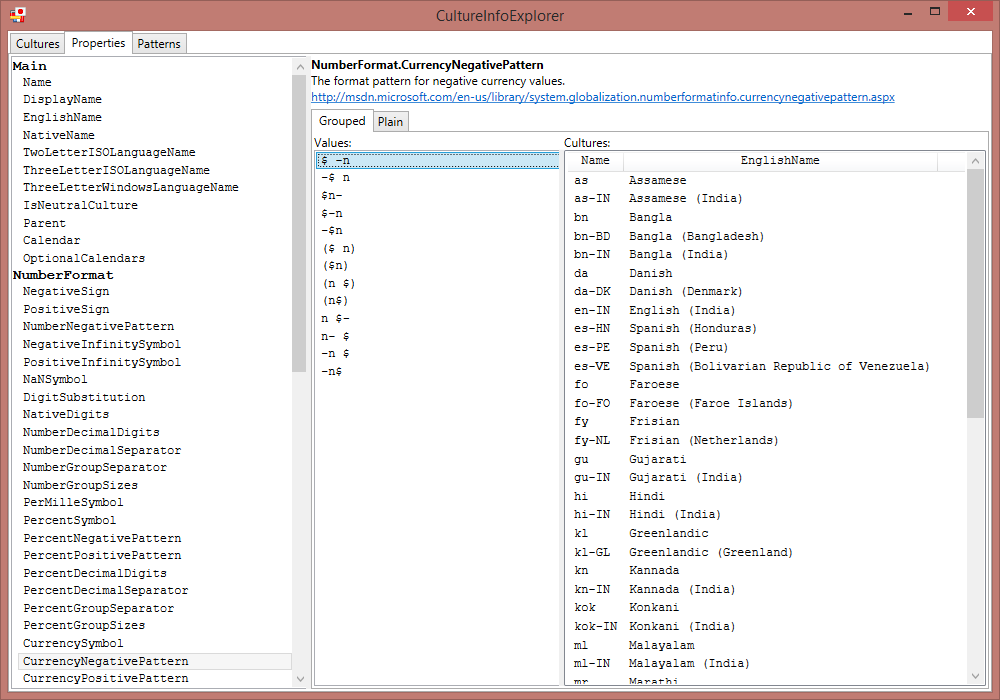
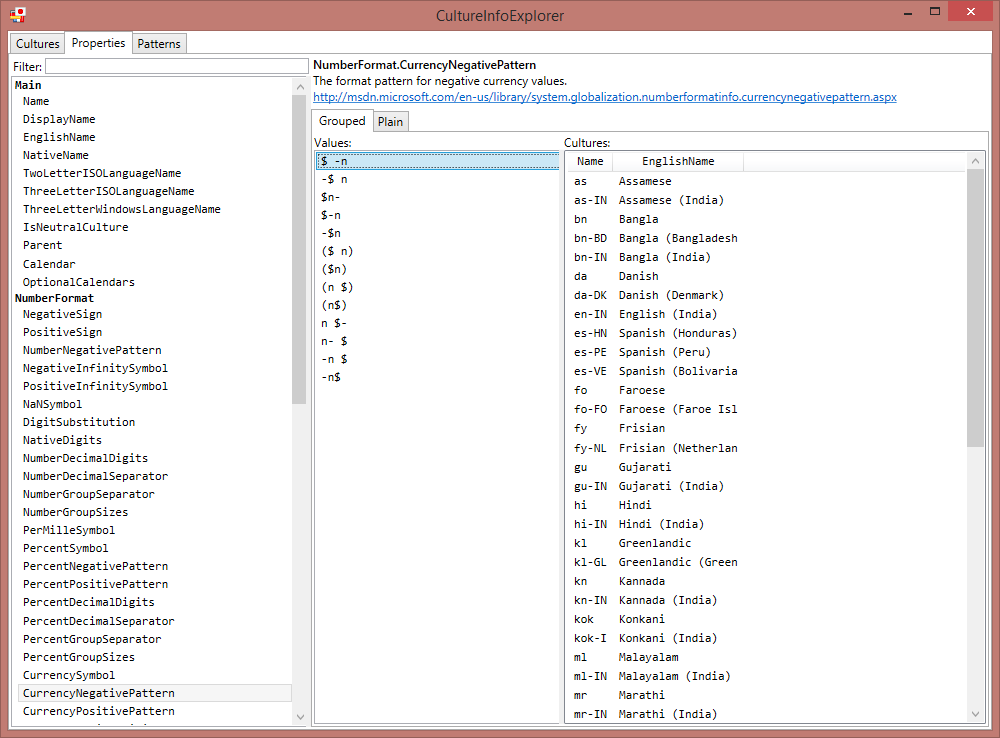
Search improvements

Changed region(s): [[0.0, 0.0, 0.992, 0.99], [0.434, 0.0, 0.558, 0.03], [0.961, 0.6, 0.992, 0.63]]

diff --git a/CultureInfoExplorer/MainWindow.xaml b/CultureInfoExplorer/MainWindow.xaml
@@ -19,19 +19,20 @@
     <local:CultureInfoPropertyValueToCulturesConverter x:Key="PropertyValueToCulturesConverter" />
     <local:PatternToValuesConverter x:Key="PatternToValuesConverter" />
     <local:PatternValueToCulturesConverter x:Key="PatternValueToCulturesConverter" />
-    <local:CultureCollectionFilterConverter x:Key="CultureCollectionFilterConverter" />
+    <local:CultureInfoCollectionFilterConverter x:Key="CultureCollectionFilterConverter" />
+    <local:CultureInfoPropertyCollectionFilterConverter x:Key="PropertyCollectionFilterConverter" />
 
     <Style TargetType="{x:Type Control}" x:Key="BaseStyle">
       <Setter Property="FontFamily" Value="Consolas" />
     </Style>
-    
+
     <Style TargetType="ListViewItem">
       <Setter Property="HorizontalContentAlignment" Value="Stretch" />
     </Style>
-    
+
     <Style TargetType="{x:Type TextBox}" BasedOn="{StaticResource BaseStyle}" />
     <Style TargetType="{x:Type ListBox}" BasedOn="{StaticResource BaseStyle}" />
-    <Style TargetType="{x:Type ListView}" BasedOn="{StaticResource BaseStyle}" />    
+    <Style TargetType="{x:Type ListView}" BasedOn="{StaticResource BaseStyle}" />
   </Window.Resources>
   <Grid>
     <TabControl x:Name="MainTabControl">
@@ -45,8 +46,18 @@
             <ColumnDefinition Width="300" />
             <ColumnDefinition Width="*" />
           </Grid.ColumnDefinitions>
-          
-          <TextBox x:Name="CultureSearchQueryTextBox" />
+
+          <Border Margin="2">
+            <Grid>
+              <Grid.ColumnDefinitions>
+                <ColumnDefinition Width="Auto" />
+                <ColumnDefinition Width="*" />
+              </Grid.ColumnDefinitions>
+
+              <TextBlock Text="Filter:" Margin="0,0,3,0" />
+              <TextBox Grid.Column="1" x:Name="CultureSearchQueryTextBox" />
+            </Grid>
+          </Border>
 
           <ListBox
             Grid.Row="1"
@@ -59,19 +70,17 @@
             SelectedItem="{Binding SelectedCulture}" />
 
           <TextBox
-            Grid.Row="1"
+            Grid.Row="0"
+            Grid.RowSpan="2"
             Grid.Column="1"
             Text="{Binding SelectedCulture, Converter={StaticResource CultureToDescriptionConverter}}"
             ScrollViewer.HorizontalScrollBarVisibility="Auto"
             ScrollViewer.VerticalScrollBarVisibility="Auto"
             IsReadOnly="True" />
-          
-          <TextBlock Grid.Row="1" Grid.Column="1" HorizontalAlignment="Center" VerticalAlignment="Center"></TextBlock>
 
           <GridSplitter 
             Grid.Column="0" 
             Grid.Row="1"
-            ResizeDirection="Columns"
             Width="5"
             HorizontalAlignment="Right" 
             VerticalAlignment="Stretch" />
@@ -84,9 +93,29 @@
             <ColumnDefinition Width="300" />
             <ColumnDefinition Width="*" />
           </Grid.ColumnDefinitions>
+          <Grid.RowDefinitions>
+            <RowDefinition Height="Auto" />
+            <RowDefinition Height="*" />
+          </Grid.RowDefinitions>
+
+          <Border Margin="2">
+            <Grid>
+              <Grid.ColumnDefinitions>
+                <ColumnDefinition Width="Auto" />
+                <ColumnDefinition Width="*" />
+              </Grid.ColumnDefinitions>
+
+              <TextBlock Text="Filter:" Margin="0,0,3,0" />
+              <TextBox Grid.Column="1" x:Name="PropertySearchQueryTextBox" />
+            </Grid>
+          </Border>
 
           <ListBox 
-            ItemsSource="{Binding GroupedProperites}"
+            Grid.Row="1"
+            Grid.Column="0"
+            ItemsSource="{Binding
+              ElementName=PropertySearchQueryTextBox, Path=Text, Mode=OneWay,
+              Converter={StaticResource PropertyCollectionFilterConverter}}"
             DisplayMemberPath="Name"
             SelectedItem="{Binding SelectedProperty}">
             <ListBox.GroupStyle>
@@ -97,11 +126,10 @@
                   </DataTemplate>
                 </GroupStyle.HeaderTemplate>
               </GroupStyle>
-
             </ListBox.GroupStyle>
           </ListBox>
 
-          <Grid Grid.Column="1">
+          <Grid Grid.Row="0" Grid.RowSpan="2" Grid.Column="1">
             <Grid.RowDefinitions>
               <RowDefinition Height="Auto" />
               <RowDefinition Height="*" />
@@ -190,7 +218,7 @@
 
           <GridSplitter 
             Grid.Column="0" 
-            Grid.Row="0"
+            Grid.Row="1"
             Width="5"
             HorizontalAlignment="Right" 
             VerticalAlignment="Stretch" />

diff --git a/CultureInfoExplorer/Logic/ExploreHelper.cs b/CultureInfoExplorer/Logic/ExploreHelper.cs
@@ -440,14 +440,15 @@ namespace CultureInfoExplorer
                     culture => culture.TextInfo.OEMCodePage.ToString(CultureInfo.InvariantCulture)),
             });
 
+            const double Number = 1234567.1234567;
             var patterns = new List<Pattern>
             {
-                new Pattern("Number (positive)", culture => string.Format(culture, "{0:N7}", 1234567.1234567)),
-                new Pattern("Number (negative)", culture => string.Format(culture, "{0:N7}", -1234567.1234567)),
-                new Pattern("Percent (positive)", culture => string.Format(culture, "{0:P7}", 1234567.1234567)),
-                new Pattern("Percent (negative)", culture => string.Format(culture, "{0:P7}", -1234567.1234567)),
-                new Pattern("Currency (positive)", culture => string.Format(culture, "{0:C7}", 1234567.1234567)),
-                new Pattern("Currency (negative)", culture => string.Format(culture, "{0:C7}", -1234567.1234567)),
+                new Pattern("Number (positive)", culture => string.Format(culture, "{0:N7}", Number)),
+                new Pattern("Number (negative)", culture => string.Format(culture, "{0:N7}", -Number)),
+                new Pattern("Percent (positive)", culture => string.Format(culture, "{0:P7}", Number)),
+                new Pattern("Percent (negative)", culture => string.Format(culture, "{0:P7}", -Number)),
+                new Pattern("Currency (positive)", culture => string.Format(culture, "{0:C7}", Number)),
+                new Pattern("Currency (negative)", culture => string.Format(culture, "{0:C7}", -Number)),
             };
             var dateTimeValue = new DateTime(2014, 12, 31, 13, 14, 15);
             var dateTimeFormats = new[]

diff --git a/CultureInfoExplorer/Converters/CultureInfoPropertyCollectionFilterConverter.cs b/CultureInfoExplorer/Converters/CultureInfoPropertyCollectionFilterConverter.cs
@@ -1,0 +1,32 @@
+using System;
+using System.Collections.Generic;
+using System.Globalization;
+using System.Linq;
+using System.Windows.Data;
+
+namespace CultureInfoExplorer
+{
+    public sealed class CultureInfoPropertyCollectionFilterConverter : IValueConverter
+    {
+        public object Convert(object value, Type targetType, object parameter, CultureInfo culture)
+        {
+            IEnumerable<CultureInfoProperty> properties;
+            var filter = value as string;
+            if (string.IsNullOrWhiteSpace(filter))
+                properties = ExploreHelper.AllProperties;
+            else
+            {
+                filter = filter.ToUpperInvariant();
+                properties = ExploreHelper.AllProperties.Where(c => c.DisplayName.ToUpperInvariant().Contains(filter));
+            }
+            var groupedProperites = CollectionViewSource.GetDefaultView(properties);
+            groupedProperites.GroupDescriptions.Add(new PropertyGroupDescription("Group"));
+            return groupedProperites;
+        }
+
+        public object ConvertBack(object value, Type targetType, object parameter, CultureInfo culture)
+        {
+            throw new NotSupportedException();
+        }
+    }
+}

diff --git a/CultureInfoExplorer/Logic/MainViewModel.cs b/CultureInfoExplorer/Logic/MainViewModel.cs
@@ -11,9 +11,8 @@ namespace CultureInfoExplorer
     {
         public ReadOnlyCollection<CultureInfo> Cultures { get; private set; }
         public CultureInfo SelectedCulture { get; set; }
-        
+
         public ReadOnlyCollection<CultureInfoProperty> Properties { get; private set; }
-        public ICollectionView GroupedProperites { get; private set; }
         public CultureInfoProperty SelectedProperty { get; set; }
         public string SelectedPropertyValue { get; set; }
 
@@ -22,14 +21,12 @@ namespace CultureInfoExplorer
         public string SelectedPatternValue { get; set; }
 
         public MainViewModel()
-        {            
+        {
             Cultures = ExploreHelper.AllCultures;
 
             SelectedCulture = CultureInfo.InvariantCulture;
 
             Properties = ExploreHelper.AllProperties;
-            GroupedProperites = CollectionViewSource.GetDefaultView(Properties);
-            GroupedProperites.GroupDescriptions.Add(new PropertyGroupDescription("Group"));
             SelectedProperty = Properties.First();
 
             Patterns = ExploreHelper.AllPatterns;

diff --git a/CultureInfoExplorer/Converters/CultureInfoCollectionFilterConverter.cs b/CultureInfoExplorer/Converters/CultureInfoCollectionFilterConverter.cs
@@ -5,20 +5,14 @@ using System.Windows.Data;
 
 namespace CultureInfoExplorer
 {
-    public sealed class CultureCollectionFilterConverter : IValueConverter
+    public sealed class CultureInfoCollectionFilterConverter : IValueConverter
     {
         public object Convert(object value, Type targetType, object parameter, CultureInfo culture)
         {
-            if (value == null) return ExploreHelper.AllCultures;
-
             var filter = value as string;
-            if (filter == null)
-                throw new ArgumentException("Value should be of System.String type.");
-
-            if (filter == string.Empty)
+            if (string.IsNullOrWhiteSpace(filter))
                 return ExploreHelper.AllCultures;
             filter = filter.ToUpperInvariant();
-
             return ExploreHelper.AllCultures.Where(c => c.EnglishName.ToUpperInvariant().Contains(filter));
         }
 
